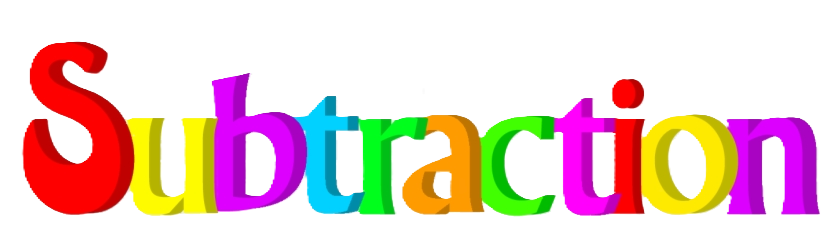
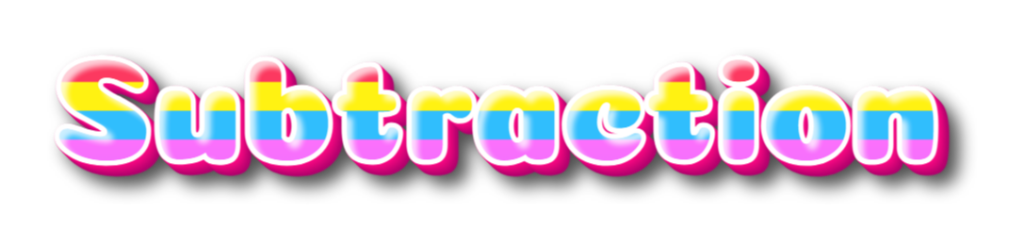
Added all new data and changes on game/new images for +,-,/,* functions

diff --git a/app/screens/game/snake.tsx b/app/screens/game/snake.tsx
@@ -29,8 +29,7 @@ const getRandomFoodPosition = (
   snake: { x: number; y: number }[],
   food: { x: number; y: number }[]
 ) => {
-  const MIN_DISTANCE = 8;
-  const BORDER_MARGIN = 3;
+  const MIN_DISTANCE = 5;
   if (!Array.isArray(snake) || !Array.isArray(food)) {
     throw new Error("The snake and food parameters must be arrays.");
   }
@@ -42,14 +41,8 @@ const getRandomFoodPosition = (
     overlap = false;
     // Generate a new random position for food
     position = {
-      x:
-        Math.floor(
-          Math.random() * ((GAME_WIDTH - 100) / BLOCK_SIZE - 2 * BORDER_MARGIN)
-        ) + BORDER_MARGIN,
-      y:
-        Math.floor(
-          Math.random() * ((GAME_HEIGHT - 100) / BLOCK_SIZE - 2 * BORDER_MARGIN)
-        ) + BORDER_MARGIN,
+      x: Math.floor(Math.random() * ((GAME_WIDTH - 100) / BLOCK_SIZE)),
+      y: Math.floor(Math.random() * ((GAME_HEIGHT - 100) / BLOCK_SIZE)),
     };
 
     // Check if the new position overlaps with any segment of the snake
@@ -365,19 +358,20 @@ const Snake = () => {
                       height: BLOCK_SIZE + 25,
                       justifyContent: "center",
                       alignItems: "center",
-                      zIndex: 2, // Higher than body segments
+                      zIndex: 1, // Higher than body segments
                       transform: [
                         {
                           rotate:
                             direction === "RIGHT"
-                              ? "270deg"
+                              ? "-90deg"
                               : direction === "LEFT"
-                              ? "-270deg"
+                              ? "90deg"
                               : direction === "UP"
                               ? "180deg"
-                              : "-0deg",
+                              : "0deg",
                         },
                       ],
+                      transformOrigin: "center",
                     }}
                   >
                     <Image
@@ -394,13 +388,22 @@ const Snake = () => {
                   <Icon
                     key={i}
                     name="square"
-                    size={BLOCK_SIZE + 5} // Slightly larger body
+                    size={BLOCK_SIZE + 5}
                     color={getColor(i)}
                     style={{
                       position: "absolute",
-                      left: segment.x * BLOCK_SIZE,
-                      top: segment.y * BLOCK_SIZE,
+                      left: segment.x * BLOCK_SIZE + 8,
+                      top:
+                        direction === "RIGHT"
+                          ? (segment.y * (BLOCK_SIZE + BLOCK_SIZE + 1)) / 2
+                          : direction === "LEFT"
+                          ? (segment.y * (BLOCK_SIZE + BLOCK_SIZE + 0.5)) / 2
+                          : direction === "UP"
+                          ? segment.y * BLOCK_SIZE + 3 // Custom UP adjustment
+                          : segment.y * BLOCK_SIZE - 5, // Custom DOWN adjustment
                       zIndex: 1,
+
+                      transformOrigin: "center",
                     }}
                   />
                 )

diff --git a/app/screens/groupB/divition_teching.tsx b/app/screens/groupB/divition_teching.tsx
@@ -35,31 +35,31 @@ export default function Divition_Teaching_Screen() {
     <View style={styles.container}>
       <Image
         style={styles.coverImg}
-        source={require("../../../assets/images/ad.png")}
+        source={require("../../../assets/images/div.png")}
         resizeMode={ResizeMode.CONTAIN}
       />
       <Video
-        ref={videoRef} 
+        ref={videoRef}
         style={styles.video}
-        source={require("../../../assets/videos/addition.mp4")} 
+        source={require("../../../assets/videos/addition.mp4")}
         useNativeControls
         resizeMode={ResizeMode.CONTAIN}
         isLooping={status.isLooping}
         onPlaybackStatusUpdate={(playbackStatus) =>
           setStatus(playbackStatus as any)
-        } 
+        }
       />
       <View style={styles.buttons}>
         <Icon
           name={isPlay ? "pause-circle" : "play-circle"}
-          size={60} 
-          color="#007BFF" 
+          size={60}
+          color="#007BFF"
           onPress={togglePlay}
         />
         <Icon
           name="repeat"
-          size={60} 
-          color={status.isLooping ? "#28a745" : "#6c757d"} 
+          size={60}
+          color={status.isLooping ? "#28a745" : "#6c757d"}
           onPress={toggleLooping}
         />
       </View>
@@ -84,16 +84,16 @@ const styles = StyleSheet.create({
   },
   coverImg: {
     alignSelf: "center",
-    width: "80%", 
-    height: "30%", 
-    aspectRatio: 16 / 9, 
+    width: "80%",
+    height: "30%",
+    aspectRatio: 16 / 9,
     marginBottom: 2,
-    marginTop: "-20%", 
+    marginTop: "-20%",
   },
 
   video: {
     width: "100%",
-    height: 300, 
+    height: 300,
     backgroundColor: "#000",
     marginTop: "-5%",
   },
@@ -103,7 +103,7 @@ const styles = StyleSheet.create({
     paddingHorizontal: 25,
     borderRadius: 10,
     marginTop: "auto",
-    marginBottom: 20, 
+    marginBottom: 20,
     shadowColor: "#000",
     shadowOffset: { width: 0, height: 2 },
     shadowOpacity: 0.2,
@@ -112,7 +112,7 @@ const styles = StyleSheet.create({
     width: "90%",
     alignItems: "center",
     position: "absolute",
-    bottom: 10, 
+    bottom: 10,
   },
   buttons: {
     marginTop: 16,

diff --git a/app/screens/groupB/multiplication_teaching.tsx b/app/screens/groupB/multiplication_teaching.tsx
@@ -35,19 +35,19 @@ export default function Multiplication_Teaching_Screen() {
     <View style={styles.container}>
       <Image
         style={styles.coverImg}
-        source={require("../../../assets/images/sub.png")}
+        source={require("../../../assets/images/mul.png")}
         resizeMode={ResizeMode.CONTAIN}
       />
       <Video
         ref={videoRef}
         style={styles.video}
-        source={require("../../../assets/videos/subtraction.mp4")} 
+        source={require("../../../assets/videos/subtraction.mp4")}
         useNativeControls
         resizeMode={ResizeMode.CONTAIN}
         isLooping={status.isLooping}
         onPlaybackStatusUpdate={(playbackStatus) =>
           setStatus(playbackStatus as any)
-        } 
+        }
       />
       <View style={styles.buttons}>
         <Icon
@@ -58,8 +58,8 @@ export default function Multiplication_Teaching_Screen() {
         />
         <Icon
           name="repeat"
-          size={60} 
-          color={status.isLooping ? "#28a745" : "#6c757d"} 
+          size={60}
+          color={status.isLooping ? "#28a745" : "#6c757d"}
           onPress={toggleLooping}
         />
       </View>
@@ -84,7 +84,7 @@ const styles = StyleSheet.create({
   },
   video: {
     width: "100%",
-    height: 300, 
+    height: 300,
     backgroundColor: "#000",
     marginTop: "-5%",
   },
@@ -93,8 +93,8 @@ const styles = StyleSheet.create({
     paddingVertical: 15,
     paddingHorizontal: 25,
     borderRadius: 10,
-    marginTop: "auto", 
-    marginBottom: 20, 
+    marginTop: "auto",
+    marginBottom: 20,
     shadowColor: "#000",
     shadowOffset: { width: 0, height: 2 },
     shadowOpacity: 0.2,
@@ -102,8 +102,8 @@ const styles = StyleSheet.create({
     elevation: 3,
     width: "90%",
     alignItems: "center",
-    position: "absolute", 
-    bottom: 10, 
+    position: "absolute",
+    bottom: 10,
   },
   buttons: {
     marginTop: 16,
@@ -122,6 +122,6 @@ const styles = StyleSheet.create({
     height: "30%",
     aspectRatio: 16 / 9,
     marginBottom: 2,
-    marginTop: "-20%", 
+    marginTop: "-20%",
   },
 });

diff --git a/app/screens/groupB/time_teaching.tsx b/app/screens/groupB/time_teaching.tsx
@@ -35,7 +35,7 @@ export default function Time_Teaching_Screen() {
     <View style={styles.container}>
       <Image
         style={styles.coverImg}
-        source={require("../../../assets/images/ad.png")}
+        source={require("../../../assets/images/teach_time.png")}
         resizeMode={ResizeMode.CONTAIN}
       />
       <Video
